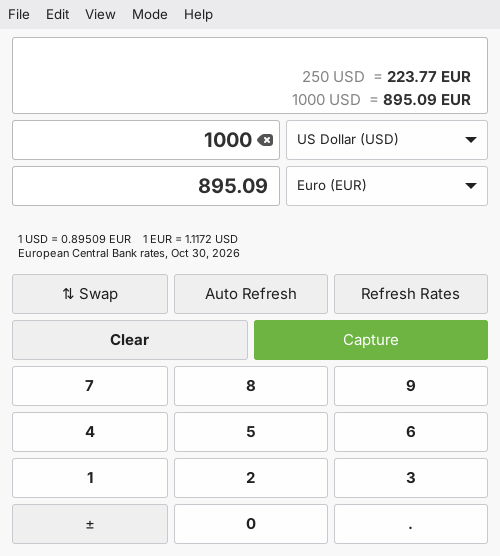
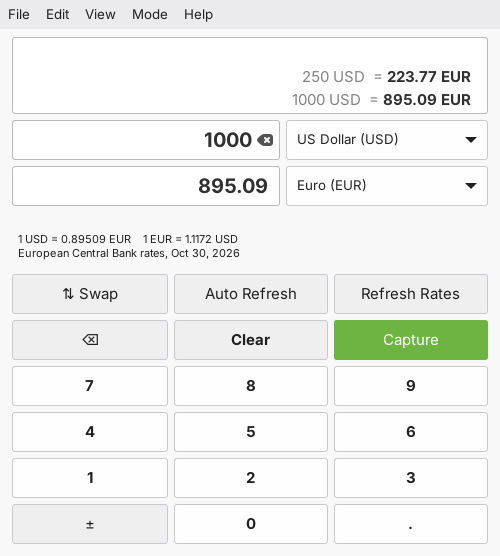
Bring the backspace key back, beside Clear, in every mode but Basic
For mouse users a big key next to the numbers is easier to reach than
the icon in the display, which stays in every mode. Basic keeps its
square root key: its keypad is small, so the icon is close at hand.

Claude-Session: https://claude.ai/code/session_01Sdn4zG3C3mhUhhAjLKdcXn

Changed region(s): [[0.45, 0.5504, 0.87, 0.6727], [0.18, 0.5809, 0.3, 0.6421], [0.33, 0.5809, 0.36, 0.6421]]

diff --git a/usr/lib/xcalculator/window.py b/usr/lib/xcalculator/window.py
@@ -389,7 +389,7 @@ class XCalculator(BasicMode, ScientificMode, FinancialMode, ProgrammerMode, Conv
                 [('x!', 2), ('sin', 2), ('cos', 2), ('tan', 2), ('e', 2), ('EE', 2)],
                 [('Rand', 2), ('sinh', 2), ('cosh', 2), ('tanh', 2), ('π', 2), ('Rad', 2)],
                 [('|x|', 2), ('nCr', 2), ('nPr', 2), ('round', 2), ('f(x)', 2), ('mod', 2)],
-                [('Clear', 6), ('%', 3), ('÷', 3)],
+                [('⌫', 3), ('Clear', 3), ('%', 3), ('÷', 3)],
                 [('7', 3), ('8', 3), ('9', 3), ('×', 3)],
                 [('4', 3), ('5', 3), ('6', 3), ('−', 3)],
                 [('1', 3), ('2', 3), ('3', 3), ('+', 3)],
@@ -401,7 +401,7 @@ class XCalculator(BasicMode, ScientificMode, FinancialMode, ProgrammerMode, Conv
                 [('P1', 2), ('P2', 2), ('BAL', 2), ('PRN', 2), ('INT', 2), ('Mrgn', 2)],
                 [('SL', 2), ('SYD', 2), ('DB', 2), ('EFF', 2), ('NOM', 2), ('Δ%', 2)],
                 [('M+', 2), ('M−', 2), ('MR', 2), ('(', 2), (')', 2), ('Clear All', 2)],
-                [('Clear', 6), ('%', 3), ('÷', 3)],
+                [('⌫', 3), ('Clear', 3), ('%', 3), ('÷', 3)],
                 [('7', 3), ('8', 3), ('9', 3), ('×', 3)],
                 [('4', 3), ('5', 3), ('6', 3), ('−', 3)],
                 [('1', 3), ('2', 3), ('3', 3), ('+', 3)],
@@ -412,7 +412,7 @@ class XCalculator(BasicMode, ScientificMode, FinancialMode, ProgrammerMode, Conv
                 [('QWORD', 2), ('<<', 2), ('>>', 2), ('(', 2), (')', 2), ('mod', 2)],
                 [('AND', 2), ('OR', 2), ('XOR', 2), ('NOT', 2), ('NAND', 2), ('NOR', 2)],
                 [('A', 2), ('B', 2), ('C', 2), ('D', 2), ('E', 2), ('F', 2)],
-                [('Clear', 6), ('±', 3), ('÷', 3)],
+                [('⌫', 3), ('Clear', 3), ('±', 3), ('÷', 3)],
                 [('7', 3), ('8', 3), ('9', 3), ('×', 3)],
                 [('4', 3), ('5', 3), ('6', 3), ('−', 3)],
                 [('1', 3), ('2', 3), ('3', 3), ('+', 3)],
@@ -422,7 +422,7 @@ class XCalculator(BasicMode, ScientificMode, FinancialMode, ProgrammerMode, Conv
                 [(c, 3) for c in CONVERTER_CATEGORIES[0:4]],
                 [(c, 3) for c in CONVERTER_CATEGORIES[4:8]],
                 [(c, 3) for c in CONVERTER_CATEGORIES[8:12]],
-                [('Clear', 6), ('Capture', 6)],
+                [('⌫', 4), ('Clear', 4), ('Capture', 4)],
                 [('7', 4), ('8', 4), ('9', 4)],
                 [('4', 4), ('5', 4), ('6', 4)],
                 [('1', 4), ('2', 4), ('3', 4)],
@@ -430,7 +430,7 @@ class XCalculator(BasicMode, ScientificMode, FinancialMode, ProgrammerMode, Conv
             ],
             "Currency Converter": [
                 [('Swap', 4), ('Auto Refresh', 4), ('Refresh Rates', 4)],
-                [('Clear', 6), ('Capture', 6)],
+                [('⌫', 4), ('Clear', 4), ('Capture', 4)],
                 [('7', 4), ('8', 4), ('9', 4)],
                 [('4', 4), ('5', 4), ('6', 4)],
                 [('1', 4), ('2', 4), ('3', 4)],

diff --git a/usr/lib/xcalculator/documentation.py b/usr/lib/xcalculator/documentation.py
@@ -89,7 +89,7 @@ HELP_PAGES = (
           "  <b>%</b>  percent: 50% = 0.5, and 200 × 15% = 30\n"
           "  <b>±</b>  change the sign of the number you are typing\n"
           "  <b>=</b>  work out the answer (or press Enter)\n"
-          "  <b>⌫</b>  at the right end of the display: delete the character before the cursor"),
+          "  <b>⌫</b>  at the right end of the display (and on the keypad in the other modes): delete the character before the cursor"),
         _("Multiplication and division are done before addition and subtraction, so 2 + 3 × 4 = 14."),
         _("<b>Typing with the keyboard</b>\n"
           "  <b>0–9</b>, <b>.</b>  numbers\n"
